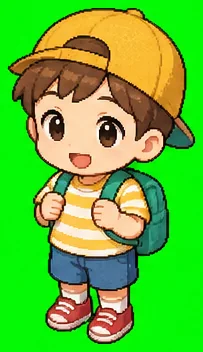
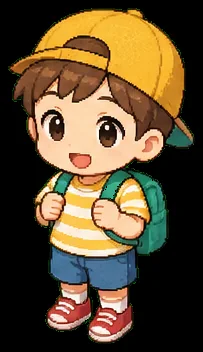
Publish latest store update

diff --git a/app.js b/app.js
@@ -235,17 +235,17 @@ const chapter2Prologue = [
   },
   {
     speaker: "店長",
-    image: "./assets/store/chapter-2-store-bg-room.webp",
+    image: "./assets/store/2-1.webp",
     text: "你就是陽推薦來的工讀生？開店前把家具放好。"
   },
   {
     speaker: "你",
-    image: "./assets/store/chapter-2-store-bg-room.webp",
+    image: "./assets/store/2-1.webp",
     text: "隨便放嗎？"
   },
   {
     speaker: "店長",
-    image: "./assets/store/chapter-2-store-bg-room.webp",
+    image: "./assets/store/2-1.webp",
     text: "...你敢？"
   },
   {
@@ -255,22 +255,22 @@ const chapter2Prologue = [
   },
   {
     speaker: "鹿鹿",
-    image: "./assets/store/chapter-2-store-bg-room.webp",
+    image: "./assets/store/2-1.webp",
     text: "你好，我是鹿鹿，我們一起努力吧！"
   },
   {
     speaker: "店長",
-    image: "./assets/store/chapter-2-store-bg-room.webp",
+    image: "./assets/store/2-1.webp",
     text: "你身體不好，不要跑來這邊忙。"
   },
   {
     speaker: "球球",
-    image: "./assets/store/chapter-2-store-bg-room.webp",
+    image: "./assets/store/2-1.webp",
     text: "鹿鹿，我會努力的~"
   },
   {
     speaker: "店長",
-    image: "./assets/store/chapter-2-store-bg-room.webp",
+    image: "./assets/store/2-1.webp",
     text: "滾。",
     choices: [
       { text: "開始佈置", feedback: "店長把鑰匙丟到你手上。" },
@@ -508,27 +508,27 @@ const aspirationPairs = [
 ];
 
 const storeFurniture = [
-  { id: "counter", name: "收銀櫃台", korean: "계산대", mark: "계", image: "./assets/store/counter.webp", width: 62, cost: 40, max: 1 },
-  { id: "shelf", name: "零食貨架", korean: "진열대", mark: "진", image: "./assets/store/shelf.webp", width: 62, cost: 25 },
-  { id: "fridge", name: "飲料冰箱", korean: "냉장고", mark: "냉", image: "./assets/store/fridge.webp", width: 50, cost: 35 },
-  { id: "freezer", name: "冷凍櫃", korean: "냉동고", mark: "동", image: "./assets/store/freezer.webp", width: 64, cost: 45 },
-  { id: "table", name: "試吃桌", korean: "시식대", mark: "식", image: "./assets/store/table.webp", width: 52, cost: 30 },
-  { id: "plant", name: "盆栽", korean: "화분", mark: "화", image: "./assets/store/plant.webp", width: 38, cost: 18 },
-  { id: "coffee", name: "咖啡台", korean: "커피", mark: "커", image: "./assets/store/coffee-stand.webp", width: 52, cost: 30 },
-  { id: "magazine", name: "雜誌架", korean: "잡지", mark: "잡", image: "./assets/store/magazine-rack.webp", width: 50, cost: 22 }
+  { id: "counter", name: "收銀櫃台", korean: "계산대", mark: "계", image: "./assets/store/counter.webp?v=2", width: 62, cost: 40, max: 1 },
+  { id: "shelf", name: "零食貨架", korean: "진열대", mark: "진", image: "./assets/store/shelf.webp?v=2", width: 62, cost: 25 },
+  { id: "fridge", name: "飲料冰箱", korean: "냉장고", mark: "냉", image: "./assets/store/fridge.webp?v=2", width: 50, cost: 35 },
+  { id: "freezer", name: "冷凍櫃", korean: "냉동고", mark: "동", image: "./assets/store/freezer.webp?v=2", width: 64, cost: 45 },
+  { id: "table", name: "試吃桌", korean: "시식대", mark: "식", image: "./assets/store/table.webp?v=2", width: 52, cost: 30 },
+  { id: "plant", name: "盆栽", korean: "화분", mark: "화", image: "./assets/store/plant.webp?v=2", width: 38, cost: 18 },
+  { id: "coffee", name: "咖啡台", korean: "커피", mark: "커", image: "./assets/store/coffee-stand.webp?v=2", width: 52, cost: 30 },
+  { id: "magazine", name: "雜誌架", korean: "잡지", mark: "잡", image: "./assets/store/magazine-rack.webp?v=2", width: 50, cost: 22 }
 ];
 
 const storeCustomerTypes = [
-  { name: "學生客人", image: "./assets/store/student.webp", className: "customer-student" },
-  { name: "上班族客人", image: "./assets/store/worker.webp", className: "customer-worker" },
-  { name: "旅客客人", image: "./assets/store/tourist.webp", className: "customer-tourist" },
-  { name: "長輩客人", image: "./assets/store/elder.webp", className: "customer-elder" },
-  { name: "小朋友客人", image: "./assets/store/child.webp", className: "customer-child" },
-  { name: "店員休假客人", image: "./assets/store/clerk.webp", className: "customer-clerk" },
-  { name: "粉色外套客人", image: "./assets/store/student.webp", className: "customer-pink" },
-  { name: "藍色制服客人", image: "./assets/store/worker.webp", className: "customer-blue" },
-  { name: "綠帽旅客", image: "./assets/store/tourist.webp", className: "customer-green" },
-  { name: "暖色小客人", image: "./assets/store/child.webp", className: "customer-warm" }
+  { name: "學生客人", image: "./assets/store/student.webp?v=2", className: "customer-student" },
+  { name: "上班族客人", image: "./assets/store/worker.webp?v=2", className: "customer-worker" },
+  { name: "旅客客人", image: "./assets/store/tourist.webp?v=2", className: "customer-tourist" },
+  { name: "長輩客人", image: "./assets/store/elder.webp?v=2", className: "customer-elder" },
+  { name: "小朋友客人", image: "./assets/store/child.webp?v=2", className: "customer-child" },
+  { name: "店員休假客人", image: "./assets/store/clerk.webp?v=2", className: "customer-clerk" },
+  { name: "粉色外套客人", image: "./assets/store/student.webp?v=2", className: "customer-pink" },
+  { name: "藍色制服客人", image: "./assets/store/worker.webp?v=2", className: "customer-blue" },
+  { name: "綠帽旅客", image: "./assets/store/tourist.webp?v=2", className: "customer-green" },
+  { name: "暖色小客人", image: "./assets/store/child.webp?v=2", className: "customer-warm" }
 ];
 
 const storeCustomerSpots = [
@@ -1554,6 +1554,8 @@ function newAspirationQuestion() {
 
 function updatePrologue() {
   const scene = prologue[prologueIndex];
+  const isCharacterArt = /\.png(?:\?|$)/i.test(scene.image);
+  prologuePanel.classList.toggle("is-character-art", isCharacterArt);
   document.querySelector("#prologueImage").src = scene.image;
   document.querySelector("#prologueImage").alt = `${scene.speaker} 劇情插圖`;
   prologueSpeaker.textContent = scene.speaker;

diff --git a/styles.css b/styles.css
@@ -204,6 +204,12 @@ h1 {
   box-shadow: var(--shadow);
 }
 
+.prologue-panel.is-character-art {
+  background:
+    radial-gradient(circle at 50% 18%, rgba(255, 253, 248, 0.94) 0 28%, rgba(255, 249, 239, 0.64) 55%, rgba(234, 220, 200, 0.84) 100%),
+    linear-gradient(180deg, #fff9ef, #eadcc8);
+}
+
 .prologue-image {
   width: 100%;
   height: calc(100vh - 28px);
@@ -212,6 +218,14 @@ h1 {
   border-radius: 8px;
   border: 0;
   background: #1f1713;
+}
+
+.prologue-panel.is-character-art .prologue-image {
+  box-sizing: border-box;
+  padding: 18px 18px 188px;
+  object-fit: contain;
+  object-position: center bottom;
+  background: transparent;
 }
 
 .dialogue-box {

diff --git a/index.html b/index.html
@@ -4,7 +4,7 @@
   <meta charset="utf-8">
   <meta name="viewport" content="width=device-width, initial-scale=1">
   <title>韓語合成咖啡店</title>
-  <link rel="stylesheet" href="./styles.css?v=113">
+  <link rel="stylesheet" href="./styles.css?v=114">
 </head>
 <body>
   <main class="app-shell">
@@ -199,6 +199,6 @@
 
   </main>
 
-  <script src="./app.js?v=111"></script>
+  <script src="./app.js?v=113"></script>
 </body>
 </html>
